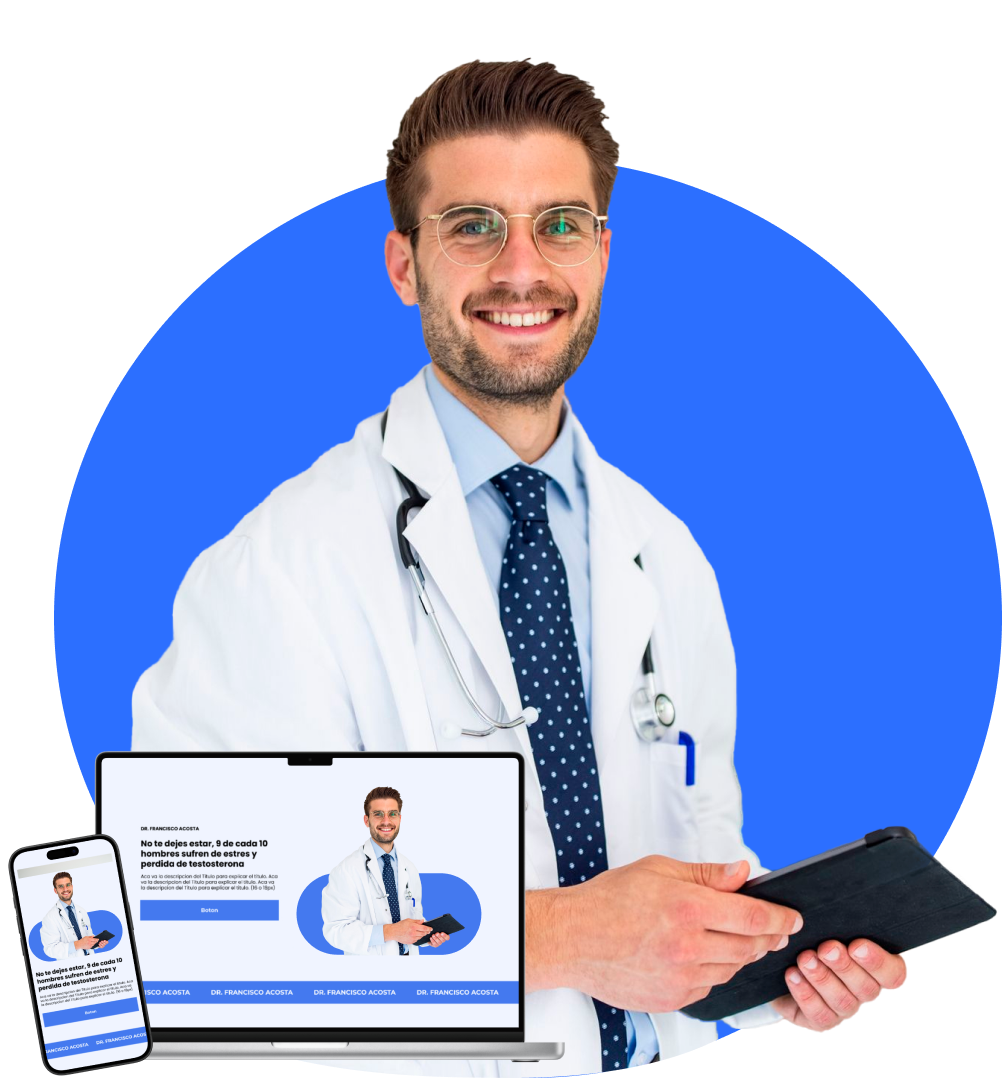
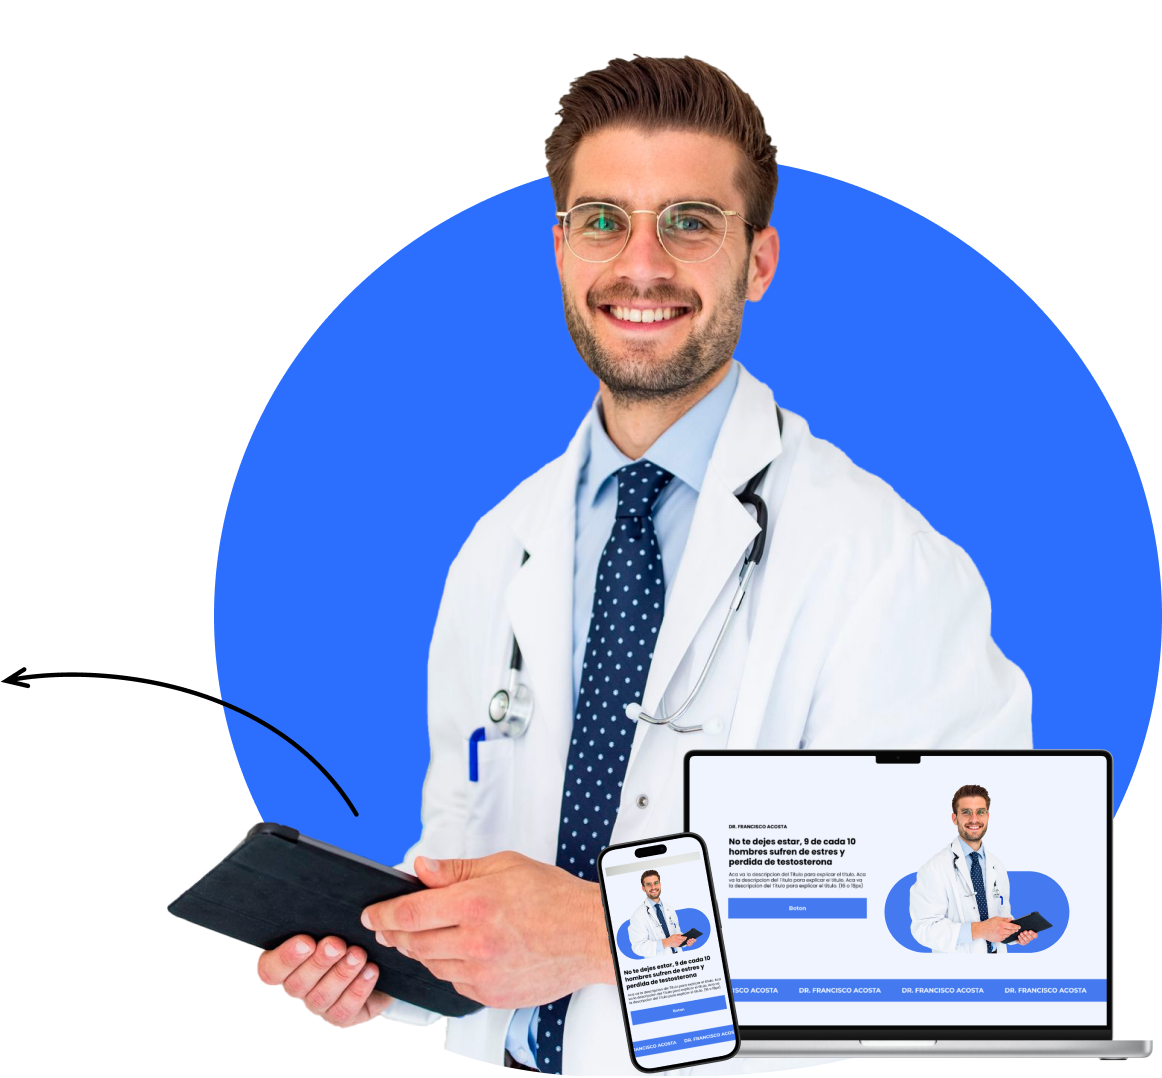
Detalles

diff --git a/components/sections/faqs.tsx b/components/sections/faqs.tsx
@@ -1,0 +1,55 @@
+'use client'
+import { useState } from "react";
+
+export default function Faqs() {
+
+	const [open, setOpen] = useState<string | null>(null);
+	
+	const Preguntas = [
+		{
+			pregunta: "¿En qué caso deberia tener una Página de Aterrizaje?",
+			respuesta: "Si vendes un producto o prestas un servicio de forma online una Landing Page es fundamental para plantarte como autoridad y demostrarle a las personas que te necesitan a vos, a tu servicio o a tu producto."
+		},
+		{
+			pregunta: "¿Cuanto tiempo tengo que esparar para tener mi Landing?",
+			respuesta: "Solo tomamos 2 proyectos por mes lo que nos permite entregarte tu Página en solo 14 Dias desde confirmado el primer pago."
+		},
+		{
+			pregunta: "¿Como es la forma de pago?",
+			respuesta: "El pago se divide en tres partes, una reserva del 10% para reservar una fecha, 40% para dar inicio al proyecto y un 50% en el lanzamiento del mismo."
+		},
+		{
+			pregunta: "¿Cuánto tiempo tomará ver resultados?",
+			respuesta: "Tan pronto como Lancemos el sitio."
+		},
+	
+	]
+
+	const toggle = (pregunta: string) => {
+		if (open === pregunta) {
+			setOpen(null)
+		} else {
+			setOpen(pregunta)
+		}
+	}
+
+	return (
+		<div className="max-w-[900px] px-4 mx-auto py-[80px] md:py-[100px]">
+			<h2 className="text-[40px] text-center mb-[40px] font-extrabold text-[#031221] leading-[110%] tracking-[-.5px] max-w-[990px] mx-auto text-balance capitalize">Preguntas Frecuentes</h2>
+			{
+				Preguntas.map((item) => (
+					<div 
+						key={item.pregunta}
+						onClick={() => {toggle(item.pregunta)}}
+						className="tc-accordion-item w-full cursor-pointer p-[20px] border-b last:border-none border-[#031221]/50 mb-[10px]"
+					>
+						<h3 className="text-[16px] md:text-[18px] text-[#031221] lg:text-[20px] flex justify-between items-center">{item.pregunta}<svg className={`${open === item.pregunta ? 'rotate-45' : ''} min-w-[20px] size-[20px] transition-all duration-300`} fill="#031221" viewBox="0 0 448 512"><path d="M256 80c0-17.7-14.3-32-32-32s-32 14.3-32 32V224H48c-17.7 0-32 14.3-32 32s14.3 32 32 32H192V432c0 17.7 14.3 32 32 32s32-14.3 32-32V288H400c17.7 0 32-14.3 32-32s-14.3-32-32-32H256V80z"/></svg></h3>
+						<div className={`overflow-hidden duration-500 transition-all ${open === item.pregunta  ? 'max-h-[2000px]' : 'max-h-0'}`}>
+							<p className="text-[#031221]/80 text-[16px] pt-[10px]">{item.respuesta}</p>
+						</div>
+					</div>
+				))
+			}
+		</div>
+	)
+}

diff --git a/components/sections/Hero.tsx b/components/sections/Hero.tsx
@@ -6,7 +6,7 @@ const Hero = () => {
   return (
     <section className='py-[80px] md:pt-[20px] md:pb-[100px]'>
         <div className="jtm-container">
-            <div className="flex items-center md:gap-[64px]">
+            <div className="flex items-center md:gap-[16px]">
                 <div className="max-w-full w-[700px]">
                   <h2 className='font-bold text-[#2C6FFF] text-[18px]'>LUTA</h2>
                   <h1 className='font-bold mt-[16px] text-[28px] leading-[110%]'>Tu Landing Page perfecta, con solo unos clics. Más rapido, mejor y más barato.</h1>
@@ -20,7 +20,7 @@ const Hero = () => {
                     <div className="bg-gray-300 max-w-full w-[900px] aspect-video mx-auto">
                     </div>
                   ) : ( // Si el usuario no marco
-                    <div className="max-w-full w-[900px] aspect-square mx-auto">
+                    <div className="max-w-full w-[900px] mx-auto">
                       <img src="/images/luta-hero.webp" alt="Luta Landing Pages" />
                     </div>
                   )

diff --git a/app/page.tsx b/app/page.tsx
@@ -9,6 +9,7 @@ import MovingSpan from "@/components/sections/MovingSpan";
 import Plans from "@/components/sections/Plans";
 import Testimony from "@/components/sections/Testimony";
 import axios from "axios";
+import Faqs from '@/components/sections/faqs';
 
 export default function Home() {
   const handleSubmit = async () => {
@@ -31,6 +32,7 @@ export default function Home() {
       <Testimony />
       <Banner />
       <Plans />
+      <Faqs/>
     </>
   );
 }

diff --git a/components/sections/Testimony.tsx b/components/sections/Testimony.tsx
@@ -64,7 +64,7 @@ const Testimony = () => {
           className="max-w-5xl"
         >
           {testimonios.map((el, index) => (
-            <SwiperSlide key={index} className="flex justify-center">
+            <SwiperSlide key={index} className="flex justify-center px-8">
               <CardTestimony testimonio={el} />
             </SwiperSlide>
           ))}
